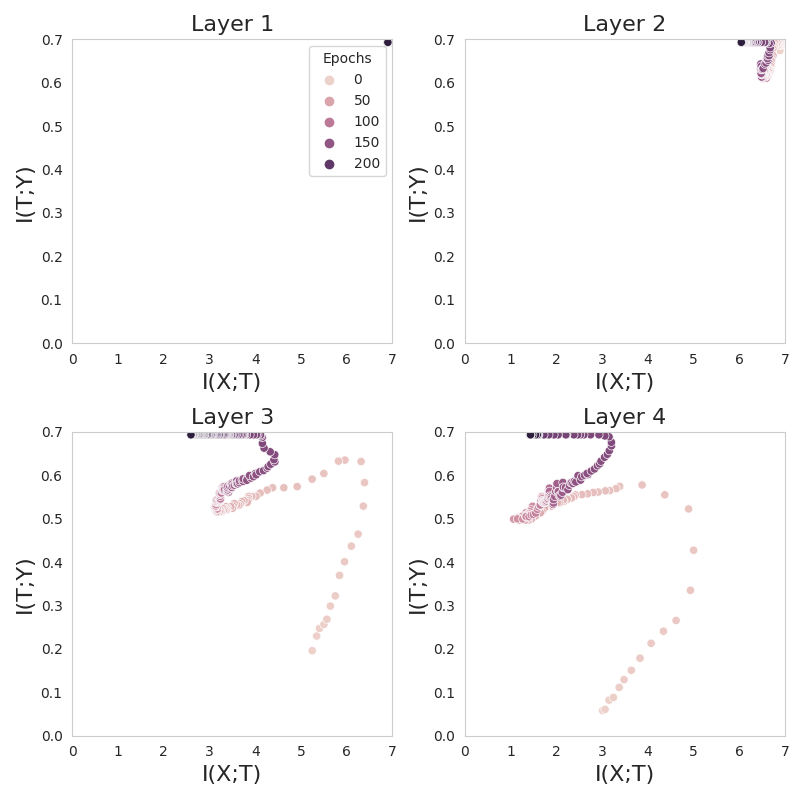
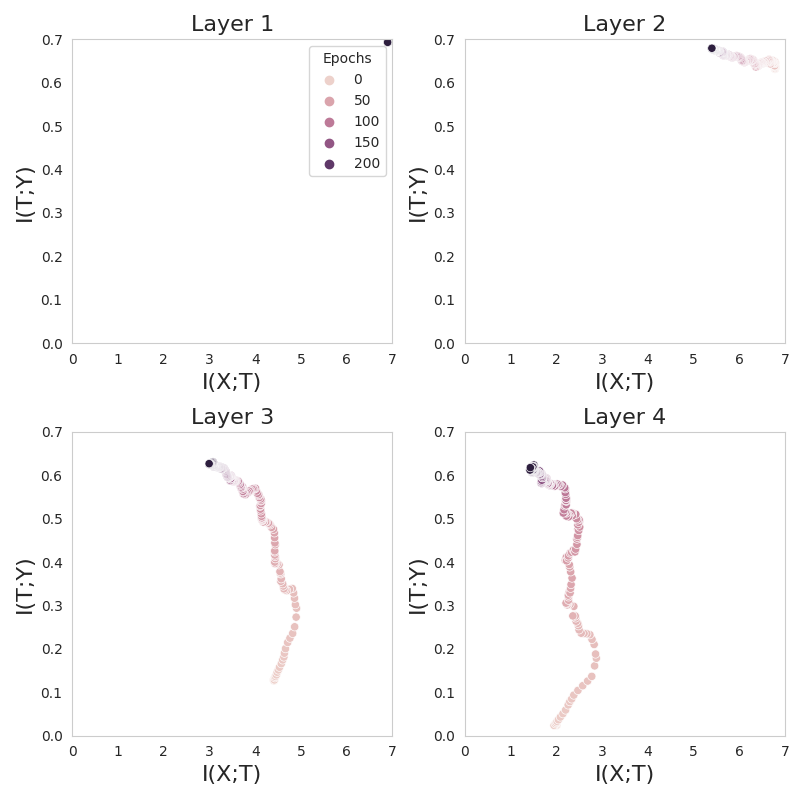
upload the avg figures

diff --git a/main.py b/main.py
@@ -317,8 +317,9 @@ def info_plane(n):
         I_TYs += data['I_TY'] / n
     avg_data = { 'I_XT': I_XTs,
                  'I_TY': I_TYs,
-                 'layer': data['Layer'],
+                 'Layer': data['Layer'],
                  'Epochs': data['Epochs']}
+    avg_data = pd.DataFrame( avg_data)
     layers = avg_data['Layer'].unique()
 
     nr = nc = 2
